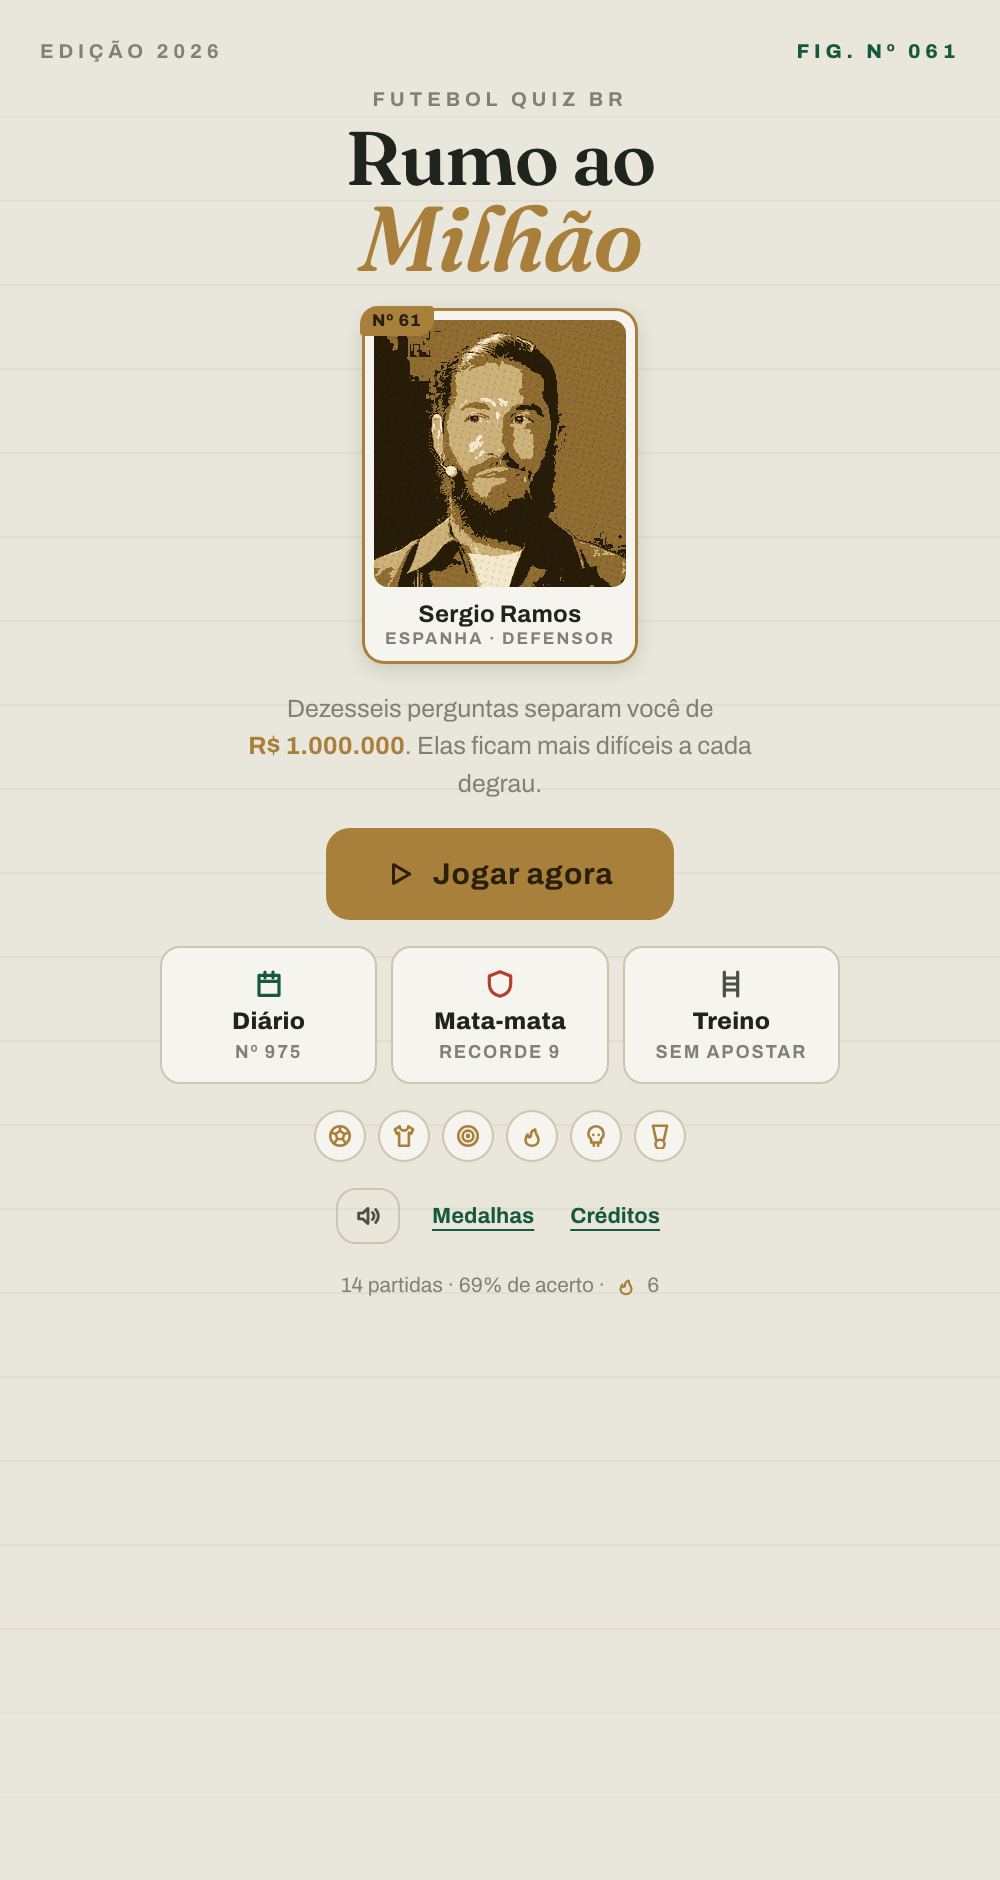
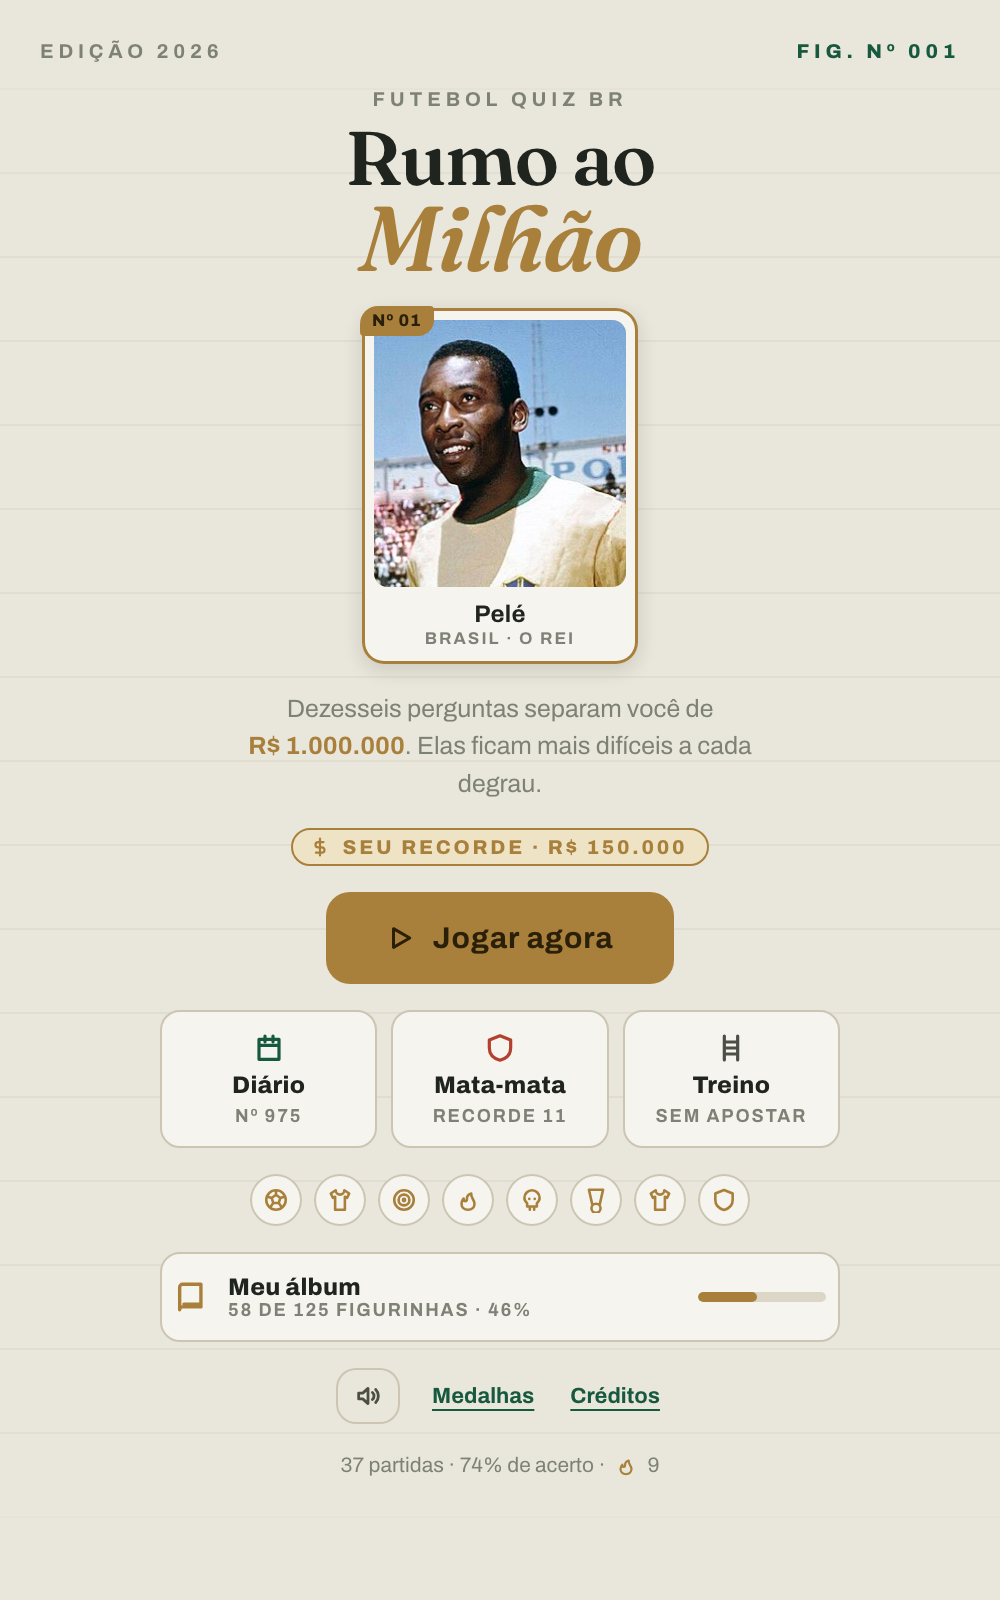
Recut the six Play screenshots for the album
The listing still showed the TV-studio build: gold gradients, the old
crests, no album. These are rendered from the current app.

The set now tells the story in order rather than being six arbitrary
screens — what the app is, that the clubs are really in it, that the
players are too, that there is an album to fill, that a wrong answer
teaches you something, and that the million is the point. Two of the old
six (the difficulty picker and the medals list) were not earning their
place and are gone.

They are captured from the real game with seeded state, not mocked up,
so they cannot drift from what it actually looks like. shots.py now
takes H= for the viewport height: at the old 940 the shorter screens sat
in a third of a page of blank paper, which in a store thumbnail is a
third of the only look most people will ever get. At 800 they fill the
frame, and 1000x1600 is comfortably inside Play's 2:1 limit.

Light theme on purpose: the paper album is the thing worth showing, and
it reads better than the dark variant at thumbnail size.

Claude-Session: https://claude.ai/code/session_01UvghGY1N2xaByK9qxUzo5v

diff --git a/tools/shots.py b/tools/shots.py
@@ -8,23 +8,53 @@ OUT = os.path.join(ROOT, "store-assets")
 
 # name -> JS to run once the page has booted
 STATES = {
- "shot-01-home": """stats={games:14,correct:132,answered:190,bestStreak:6,perfect:1,hard80:1,survBest:9};
-   LS.set('stats',stats); sc='home'; go();""",
- "shot-02-difficulty": "sc='difficulty'; go();",
- "shot-03-question": """diffKey='dificil'; startGame();""",
- "shot-04-players": """diffKey='moderado';
-   cat = buildGame('moderado');
-   const rq = GEN_QS(2).find(q => q.reveal);
-   cat.qs=[rq]; qi=0; sel.clear(); pts=0; streak=0; runLog=[];
-   sc='quiz'; tMax=25; tLeft=17; disp=getDisp(rq); go();""",
- "shot-05-medals": """stats={games:14,correct:132,answered:190,bestStreak:6,perfect:1,hard80:1,survBest:4};
-   LS.set('stats',stats); sc='medals'; go();""",
- "shot-06-end": """diffKey='dificil';
-   cat = buildGame('dificil'); cat.qs = cat.qs.slice(0,10);
-   pts=64; nCorrect=8; nPartial=1; bestStreak=5; streak=5;
-   runLog=[3,3,3,0,3,3,1,3,3,3]; scores['dificil']=64;
-   stats={games:12,correct:74,answered:110,bestStreak:7};
-   sc='end'; go();""",
+ # ── The six phone screenshots on the Play listing ──────────────
+ # They have to carry the story in order: what the app is, that the clubs
+ # and the players are really in it, that there is an album to fill, that a
+ # wrong answer teaches you something, and that the million is the point.
+ #   THEME=light python3 tools/shots.py shot-01-home shot-02-crests \
+ #     shot-03-question shot-04-album shot-05-ficha shot-06-milhao
+
+ "shot-01-home": """album=new Set(PL.slice(0,58).map(p=>p.id)); LS.set('album',[...album]);
+   stats={games:37,correct:412,answered:560,bestStreak:9,perfect:3,hard80:2,survBest:11};
+   LS.set('stats',stats); LS.set('milBest',150000);
+   heroSticker=function(){ const h=PL.find(p=>p.id==='pele'); return {p:h,num:PL.indexOf(h)+1}; };
+   sc='home'; go();""",
+
+ "shot-02-crests": """diffKey='moderado'; cat=buildGame('moderado');
+   const fq={ t:'Campeão do Brasileirão em 2024?', a:['botafogo'],
+     fixed:['botafogo','palmeiras','flamengo','cruzeiro','saopaulo',
+            'gremio','corinthians','vasco','santos','atleticomg'] };
+   cat.qs=[fq]; qi=0; sel.clear(); pts=48; streak=4; runLog=[3,3,3,1,3];
+   sc='quiz'; tMax=25; tLeft=19; disp=getDisp(fq); go();""",
+
+ "shot-03-question": """diffKey='dificil'; cat=buildGame('dificil');
+   const fq={ t:'Quem marcou os dois gols do Brasil na final da Copa de 2002?',
+     a:['ronaldo'], type:'player',
+     fixed:['ronaldo','ronaldinho','rivaldo','bebeto','romario',
+            'careca','edmundo','zico','socrates','falcao'] };
+   cat.qs=[fq]; qi=0; sel.clear(); pts=72; streak=6; runLog=[3,3,3,3,3,3];
+   sc='quiz'; tMax=20; tLeft=14; disp=getDisp(fq); go();""",
+
+ "shot-04-album": """album=new Set(PL.slice(0,22).map(p=>p.id)
+     .concat(PL.slice(30,38).map(p=>p.id)).concat(PL.slice(45,52).map(p=>p.id)));
+   LS.set('album',[...album]); sc='album'; go();""",
+
+ "shot-05-ficha": """advanceAfterReveal=function(){};
+   album=new Set(); diffKey='moderado'; cat=buildGame('moderado');
+   const fq={ t:'Quem ganhou a Bola de Ouro em 2007, jogando pelo AC Milan?',
+     a:['kaka'], type:'player',
+     fixed:['kaka','ronaldinho','pirlo','nedved','shevchenko',
+            'figo','totti','del_piero','maldini','nesta'] };
+   cat.qs=[fq]; qi=0; disp=getDisp(fq); sel=new Set(['kaka']); tLeft=15; pts=54; doReveal();""",
+
+ "shot-06-milhao": """startMilhao(); rung=11; qi=11; banked=50000;
+   cat.qs[11]={ t:'Qual destes jogadores foi campeão do mundo em 1970?',
+     a:['jairzinho'], type:'player',
+     fixed:['jairzinho','tostao','gerson','rivellino','carlos_alberto',
+            'zico','falcao','socrates','junior','dinamite'], _cat:{id:'copa',name:'Copa do Mundo',col:'#2E7D4F'} };
+   sel.clear(); sc='quiz'; tMax=qTime(); tLeft=21; disp=getDisp(cat.qs[11]); go();""",
+
 
  "s-wrong": """advanceAfterReveal=function(){};
    diffKey='moderado'; startGame();
@@ -120,7 +150,8 @@ def shot(name, js):
     io.open(tmp, "w", encoding="utf-8").write(src.replace("</body>", inject + "</body>"))
     try:
         subprocess.run([CHROME, "--headless", "--disable-gpu", "--hide-scrollbars",
-                        "--window-size=500,940", "--force-device-scale-factor=2",
+                        "--window-size=500," + os.environ.get("H", "940"),
+                        "--force-device-scale-factor=2",
                         "--allow-file-access-from-files", "--virtual-time-budget=5000",
                         "--screenshot=" + os.path.join(OUT, name + ".png"),
                         "file://" + tmp], capture_output=True, timeout=240)

diff --git a/PLAY_STORE_LISTING.md b/PLAY_STORE_LISTING.md
@@ -78,7 +78,7 @@ https://tdosreis.github.io/futebol-quiz/privacy.html
 |-------|------|-------|
 | App icon | 512×512 PNG (32-bit) | You already have icons/icon-512.png |
 | Feature graphic | 1024×500 PNG/JPG | Ready: store-assets/feature-graphic.png |
-| Phone screenshots | 2–8, min 320px | 6 ready: store-assets/shot-01..06 (1000×1880) |
+| Phone screenshots | 2–8, min 320px | 6 ready, 1000×1600: `shot-01-home`, `shot-02-crests`, `shot-03-question`, `shot-04-album`, `shot-05-ficha`, `shot-06-milhao` |
 | Tablet screenshots | optional | skip unless targeting tablets |
 
 All six are regenerated by `python3 tools/shots.py` after any UI change.
@@ -194,3 +194,19 @@ Steps when you're ready:
 ### If you ever want a true PAID (pay-to-download) app
 - Not possible to convert this Free app. Publish a separate **"Futebol Quiz Pro"** with
   a new package id (e.g. `io.github.tdosreis.futebolquizpro`) set to Paid. Low priority.
+
+## Regenerating the screenshots
+
+    H=800 THEME=light python3 tools/shots.py \
+      shot-01-home shot-02-crests shot-03-question \
+      shot-04-album shot-05-ficha shot-06-milhao
+
+They are rendered from the real app, not mocked up, so they cannot drift from
+what the game actually looks like. `H` is the viewport height in CSS pixels
+(the shot is twice that, for retina) and `THEME` forces light or dark rather
+than following whatever the machine is set to — the listing uses light, because
+the paper album is the thing worth showing.
+
+The order tells a story and should stay in it: what the app is, that the clubs
+are really in it, that the players are too, that there is an album to fill,
+that a wrong answer teaches you something, and that the million is the point.
